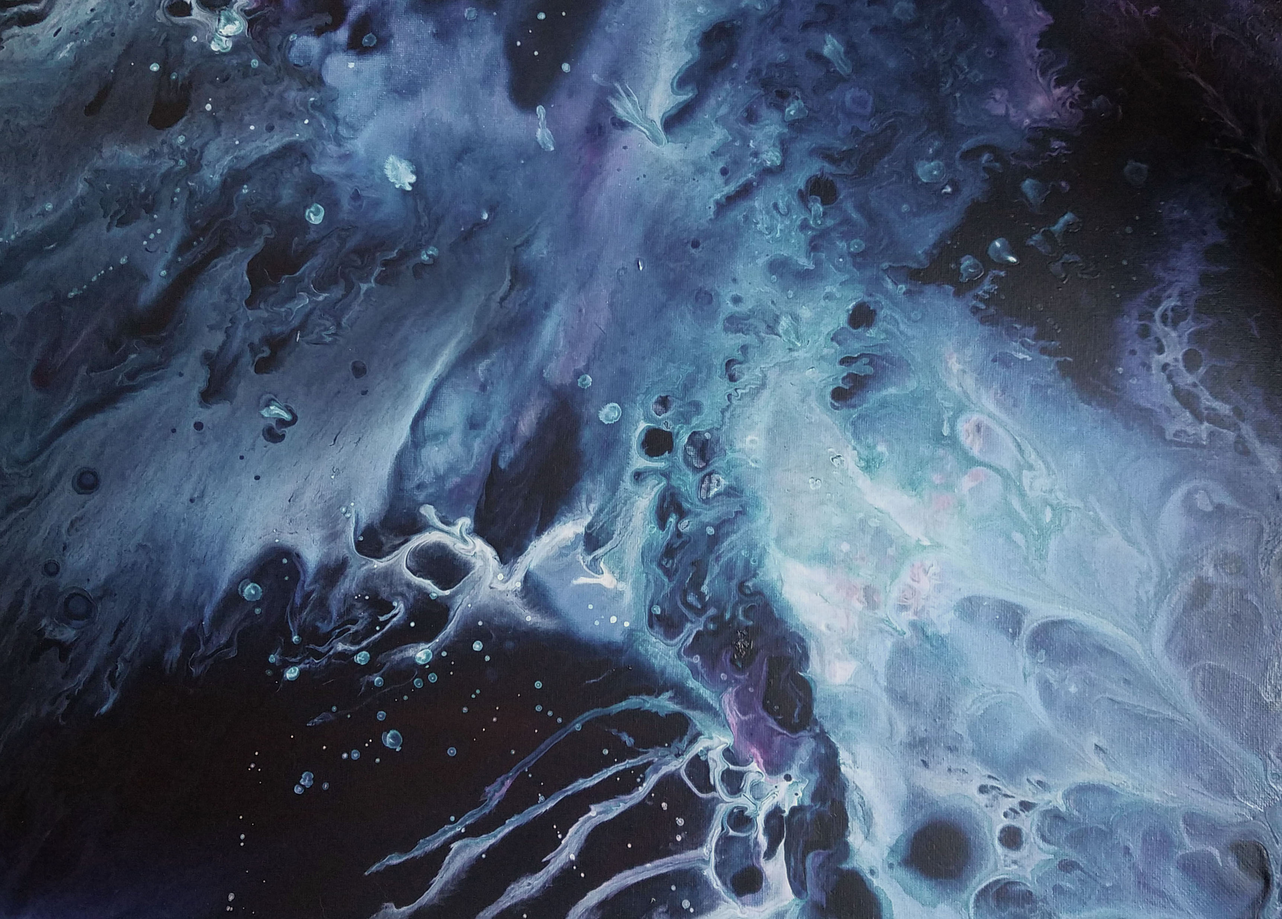
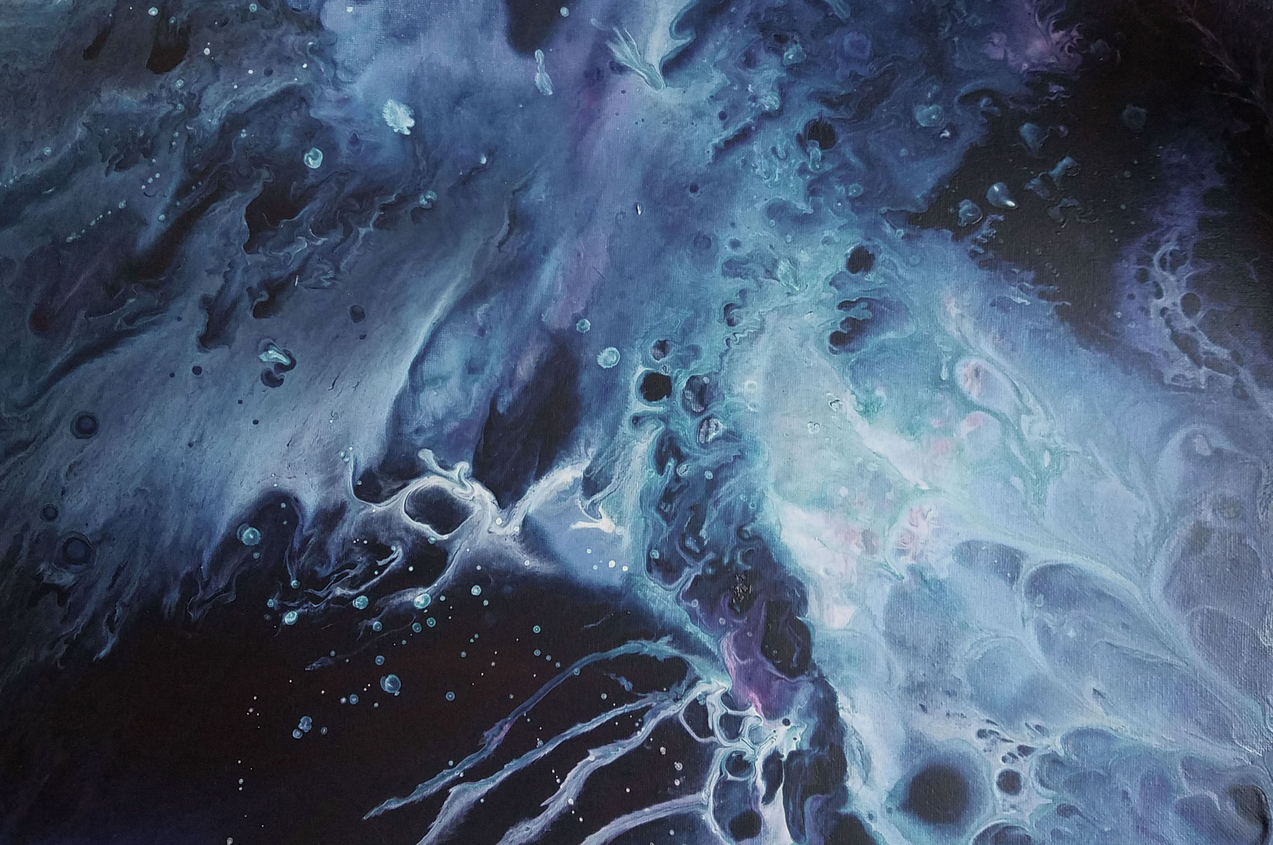
adjust img to viewport height

diff --git a/css/main.css b/css/main.css
@@ -88,7 +88,6 @@ p {
     margin-right: 50px;
 }
 footer {
-    /*border-top: 1px solid #d5d5d5;*/
     font-size: .8em;
     position: fixed;
     width: 100%;
@@ -107,5 +106,7 @@ ul.posts li {
 img {
     position: relative;
     width: 100%;
-    
+    height: 89vh;
+    object-fit: cover;
+
 }
